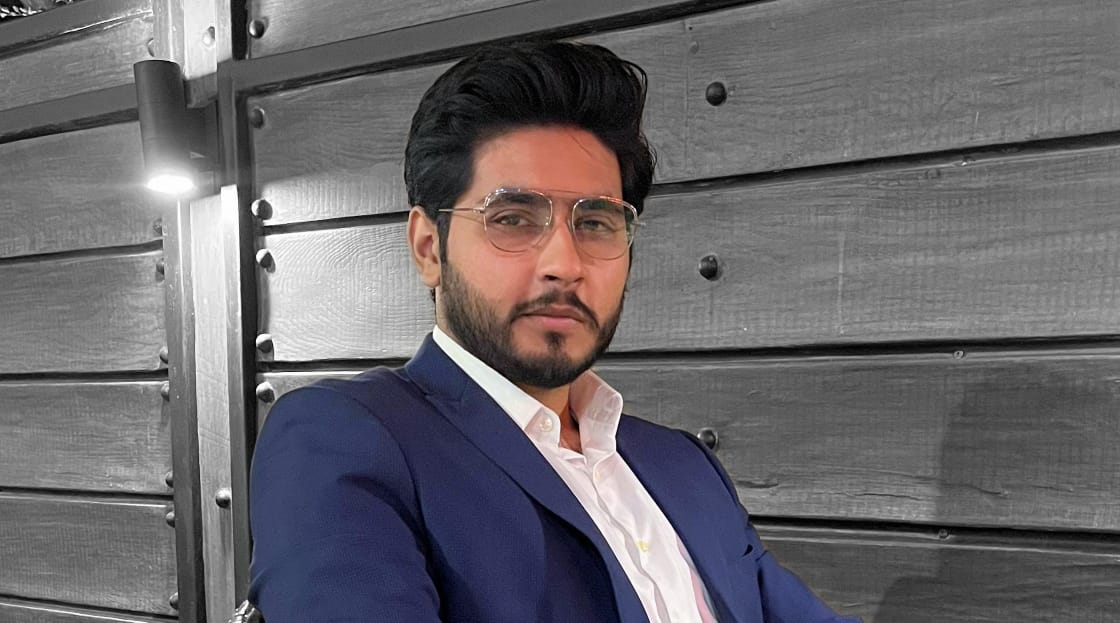
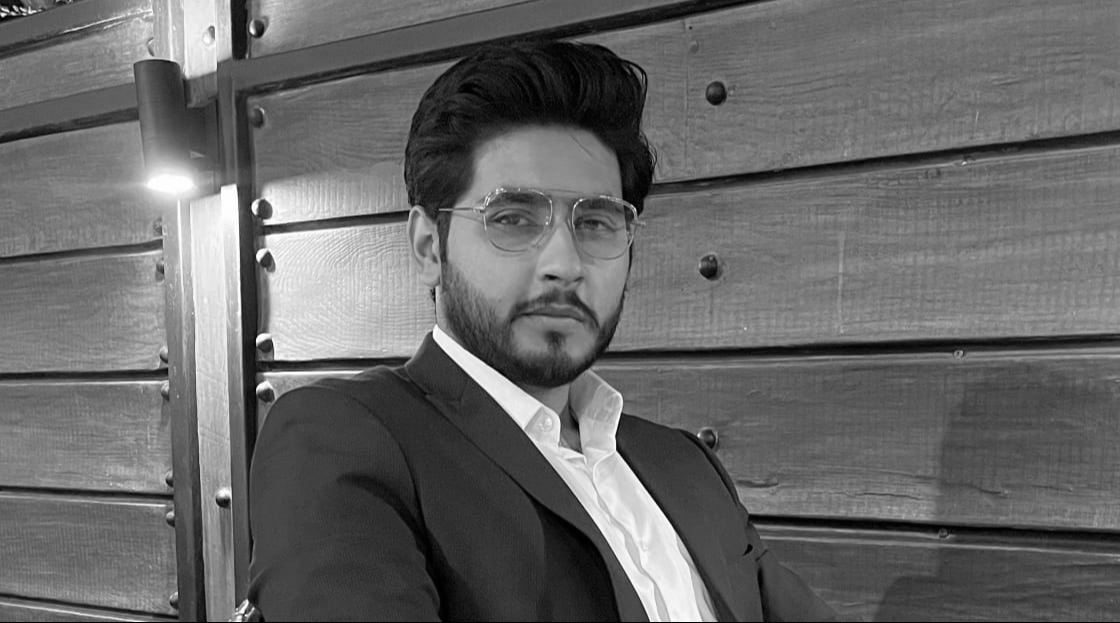
Final Commit

diff --git a/src/components/TestimonialCarousel.jsx b/src/components/TestimonialCarousel.jsx
@@ -5,13 +5,15 @@ const testimonialsData = [
         name: 'Robin Singh',
         title: 'Director of Fulfillment, Good Guard Security',
         quote: "Haseeb leads with quiet strength and unwavering resolve. Where others hesitate, Haseeb acts—with clarity, purpose, and full accountability. If you're looking for someone to lead with honor and deliver without fail, Haseeb is that leader.",
-        image: '/robin.jpeg'
+        image: '/robin.png',
+        imgClass: 'w12 h-12 rounded-full object-cover'
     },
     {
         name: 'Jasmine Malik',
         title: 'Director of Customer Success, Good Guard Security',
         quote: "Haseeb's hard work and dedication to accuracy are truly commendable. His ability to provide precise, well-researched information makes him an invaluable asset to any team.",
-        image: '/jasmine.jpeg'
+        image: '/jasmine.png',
+        imgClass: 'w-12 h-12 rounded-full object-contain'
     }
 ];
 
@@ -34,9 +36,9 @@ const TestimonialCarousel = () => {
                                     key={index}
                                     className="w-full md:w-1/2 xl:w-[40%] flex-shrink-0 group relative bg-white hover:bg-[#ffaa17] rounded-lg shadow-md p-6 lg:p-12 cursor-default transition duration-200 ease-in-out"
                                 >
-                                    <div className="flex gap-5 items-center mb-8">
+                                    <div className="flex gap-3 md:gap-5 items-center mb-8">
                                         <div className="flex items-center justify-center">
-                                            <img src={testimonial.image} className="w-20 h-16 rounded-full object-cover" alt={testimonial.name} />
+                                            <img src={testimonial.image} className={testimonial.imgClass} alt={testimonial.name} />
                                         </div>
                                         <div>
                                             <h3 className="text-gray-500 group-hover:text-black text-xl font-semibold ">{testimonial.name}</h3>

diff --git a/src/components/Header.jsx b/src/components/Header.jsx
@@ -62,6 +62,14 @@ const Header = () => {
                         activeSection === 'about' ? 'w-full' : 'w-0 group-hover:w-full'
                     }`}></span>
                 </a>
+                <a href="#whychooseus" onClick={handleSmoothScroll} 
+                    className={`text-xl hover:text-black transition-colors duration-300 relative group ${activeSection === 'whychooseus' ? 'text-black' : 'text-gray-600'}`}
+                >
+                    Why Choose Us
+                    <span className={`absolute bottom-0 left-0 h-0.5 bg-[#ffaa17] transition-all duration-300 ${
+                        activeSection === 'whychooseus' ? 'w-full' : 'w-0 group-hover:w-full'
+                    }`}></span>
+                </a>
                 <a href="#services" onClick={handleSmoothScroll} 
                     className={`text-xl hover:text-black transition-colors duration-300 relative group ${activeSection === 'services' ? 'text-black' : 'text-gray-600'}`}
                 >
@@ -133,6 +141,14 @@ const Header = () => {
                         About
                         <span className={`absolute bottom-0 left-0 h-0.5 bg-[#ffaa17] transition-all duration-300 ${
                             activeSection === 'about' ? 'w-full' : 'w-0 group-hover:w-full'
+                        }`}></span>
+                    </a>
+                    <a href="#whychooseus" onClick={handleSmoothScroll} 
+                        className={`hover:text-black text-xl relative group ${activeSection === 'whychooseus' ? 'text-black' : 'text-gray-600'}`}
+                    >
+                        Why Choose Us
+                        <span className={`absolute bottom-0 left-0 h-0.5 bg-[#ffaa17] transition-all duration-300 ${
+                            activeSection === 'whychooseus' ? 'w-full' : 'w-0 group-hover:w-full'
                         }`}></span>
                     </a>
                     <a href="#services" onClick={handleSmoothScroll} 

diff --git a/src/components/TeamQuoteParallax.jsx b/src/components/TeamQuoteParallax.jsx
@@ -32,16 +32,17 @@ const TeamQuoteParallax = () => {
         <div
             className="absolute inset-0 -z-10"
             style={{
-            backgroundImage: "url('/bg-image-2.png')",
-            backgroundSize: 'cover',
-            backgroundRepeat: 'no-repeat',
-            backgroundPosition: `center ${-offset}px`,
-            transition: 'background-position 0.1s linear',
+                backgroundImage: "url('/bg-image-2.png')",
+                backgroundSize: 'cover',
+                backgroundRepeat: 'no-repeat',
+                backgroundPosition: `center ${-offset}px`,
+                transition: 'background-position 0.1s linear',
             }}
         />
 
         {/* Overlay for dark effect */}
         <div className="absolute inset-0 bg-black/80 opacity-60 -z-0" />
+        {/* <div className='relative z-10 container mx-auto my-auto px-6 lg:px-16 xl:px-18'> */}
 
         {/* Actual content */}
         <div className="relative z-10 flex flex-col items-center justify-center h-full px-4">
@@ -53,11 +54,12 @@ const TeamQuoteParallax = () => {
             </div>
 
             {/* Text */}
-            <h2 className="px-2 lg:px-1 xl:px-10 xxl:px-12 2xl:px-18 text-center tracking-tighter text-white text-2xl md:text-3xl lg:text-4xl xl:text-5xl font-bold leading-tight sm:w-[78%] md:w-full lg:w-[80%] xl:w-[80%] xxl:w-[70%] max-w-full">
+            <h2 className="px-2 xsm:px-6 md:px-0 lg:px-0 xl:px-10 xxl:px-19 2xl:px-26 text-center tracking-tighter text-white text-2xl xsm:text-3xl md:text-4xl lg:text-5xl xl:text-5xl font-bold leading-tight xxs:w-[95%] xs:w-[93%] xsm:w-[85%] sm:w-[78%] md:w-[82%] lg:w-[80%] xl:w-[62%] xxl:w-[60%] 2xl:w-[60%] 3xl:w-[60%] max-w-full">
             GREAT THINGS IN BUSINESS ARE NEVER DONE BY ONE PERSON.{" "}
             <span className="text-[#ffaa17]">THEY'RE DONE BY A TEAM OF PEOPLE.</span>
             </h2>
         </div>
+        {/* </div> */}
         </section>
     );
 };

diff --git a/src/components/Testimonials.jsx b/src/components/Testimonials.jsx
@@ -15,7 +15,7 @@ const Testimonials = () => {
                         <div className="flex items-center mb-8">
                             <div className="rounded-full flex items-center justify-center mr-4">
                                 {/* Placeholder Icon/Avatar */}
-                                <img src="/robin.jpeg" className="w-12 h-12 rounded-full object-cover" />
+                                <img src="/robin.png" className="w-12 h-12 rounded-full object-cover" />
                             </div>
                             <div>
                                 <h3 className="text-gray-500 group-hover:text-black text-xl font-semibold ">Robin Singh</h3>
@@ -35,7 +35,7 @@ const Testimonials = () => {
                         viewport={{ once: true }}>
                         <div className="flex items-center mb-8">
                             <div className="w-12 h-12 rounded-full flex items-center justify-center mr-4">
-                            <img src="/jasmine.jpeg" className="w-12 h-12 rounded-full object-contain" />
+                            <img src="/jasmine.png" className="w-12 h-12 rounded-full object-contain" />
                             </div>
                             <div>
                                 <h3 className="text-gray-500 group-hover:text-black text-xl font-semibold">Jasmine Malik</h3>

diff --git a/src/components/Hero.jsx b/src/components/Hero.jsx
@@ -81,12 +81,12 @@ const Hero = () => {
                         </motion.h3>
                         {/* Heading */}
                         <motion.h2 
-                            className="w-full py-4 lg:w-[40%] text-xl md:text-2xl lg:text-3xl xl:text-7xl xxl:text-5xl font-semibold tracking-wider text-[#ffaa17] font-anton"
+                            className="w-full py-4 lg:w-[40%] text-5xl lg:text-6xl xl:text-7xl font-semibold tracking-wider text-[#ffaa17] font-anton"
                             initial={{ opacity: 0, y: 70 }}
                             animate={{ opacity: 1, y: 0 }}
                             transition={{ duration: 0.5, delay: 0.3, ease: 'easeOut' }}
                         >
-                            Outsourcing <span className='text-white'>Made Easy</span>
+                            Outsourcing <br /><span className='text-white'>Made Easy</span>
                         </motion.h2>
 
                         {/* Paragraph */}

diff --git a/src/components/Contact.jsx b/src/components/Contact.jsx
@@ -92,7 +92,7 @@ const Contact = () => {
                     <span className="absolute top-[60px] left-[25%] -z-0 rounded-full w-[150px] h-[150px] bg-[#ffaa17] blur-[100px]"></span>
                 </motion.div>
                     <h3 className="text-2xl md:text-3xl lg:text-4xl xl:text-5xl font-bold text-white mb-6">Let’s Take the Next <br />Step — Together <span className="text-[#ffaa17]">!</span></h3>
-                    <p className="text-xl lg:text-xl text-gray-300 mb-10 lg:w-[390px]">
+                    <p className="text-xl lg:text-xl text-gray-300 mb-10 lg:w-[450px]">
                         You’ve explored what ATMOS is all about — now let’s bring it to life.
                         If you're thinking, “This could work for us” — you're probably right.
                         Fill the form and we'll reach out soon.

diff --git a/src/components/WhyChooseUs.jsx b/src/components/WhyChooseUs.jsx
@@ -2,7 +2,7 @@ import React from 'react';
 
 const WhyChooseUs = () => {
   return (
-    <div className="py-10 bg-[#222429]">
+    <div id="whychooseus" className="py-10 bg-[#222429]">
       <div className='container mx-auto px-6 lg:px-16 xl:px-18'>
         <h2 className="text-4xl font-bold text-center uppercase text-white mb-4">
           Why <span className="text-[#ffaa17]">Choose</span> Us

diff --git a/src/index.css b/src/index.css
@@ -8,12 +8,17 @@
   --breakpoint-xs: 400px;
   --breakpoint-xsm: 575px;
   --breakpoint-xxl: 90rem;
+  --breakpoint-3xl: 125rem;
 }
 
 :root {
   font-family: "Oswald", sans-serif;
   /* background-color: #E1E2E1; */
   background-color: #ffffff;
+}
+
+.bg-main {
+  background-color: #222429;
 }
 
 .font-anton {

diff --git a/src/components/About.jsx b/src/components/About.jsx
@@ -13,7 +13,9 @@ const About = () => {
                 </h2> */}
                 <WhoWeAre />
                 <CEO />
-                <WhyChooseUs />
+                <div className='bg-main'>
+                    <WhyChooseUs />
+                </div>
             </div>
         </section>
     )

diff --git a/src/App.jsx b/src/App.jsx
@@ -41,7 +41,7 @@ function App() {
     <>
     <Header />
     
-    <div className="max-w-[1536px] container mx-auto overflow-hidden">
+    <div className=" mx-auto overflow-hidden">
       {/* Scroll to Top Button */}
       <AnimatePresence>
         {showScrollTop && (
